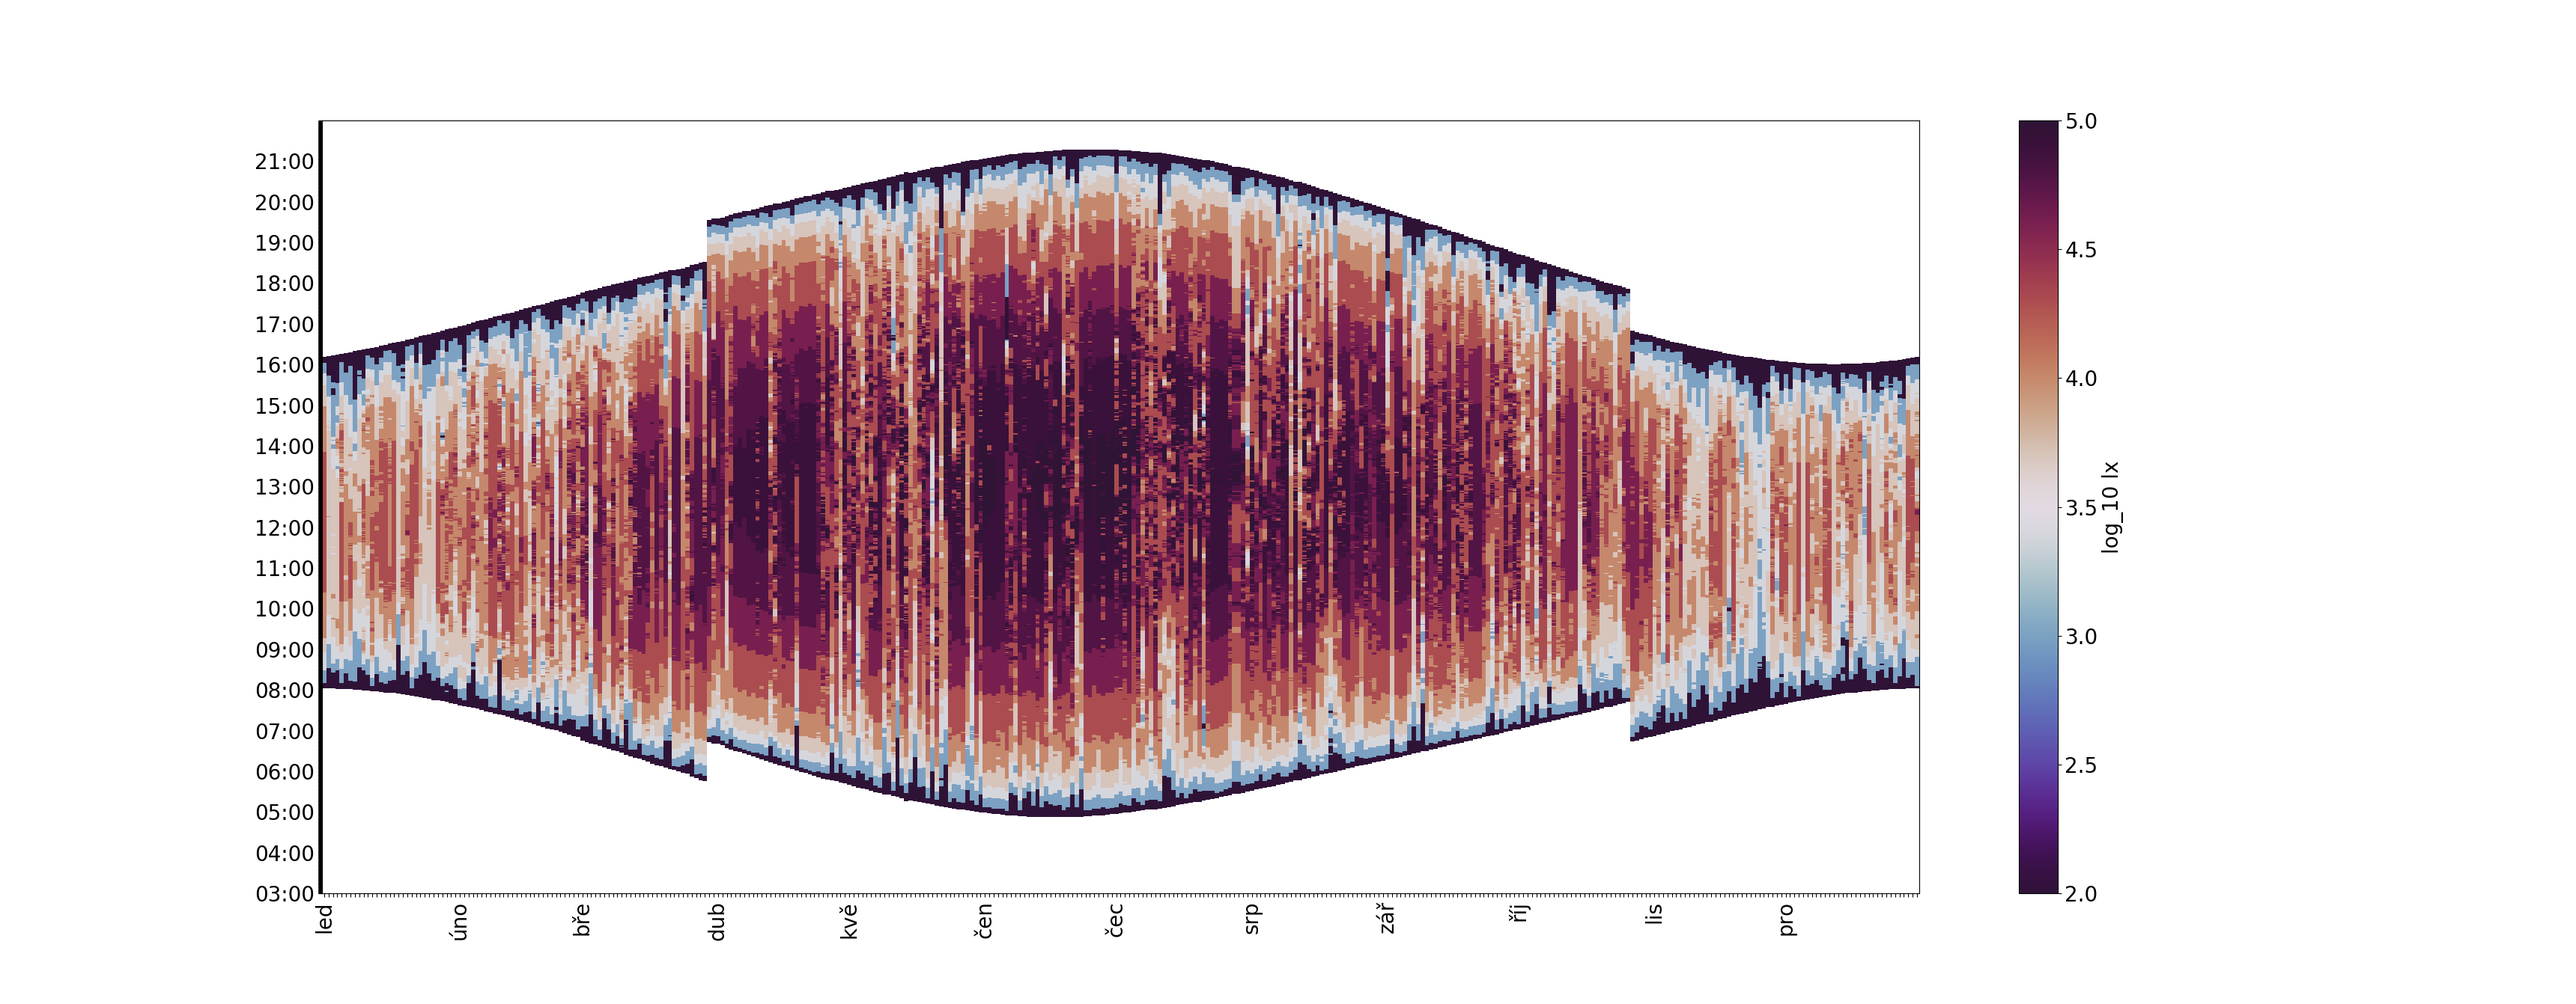
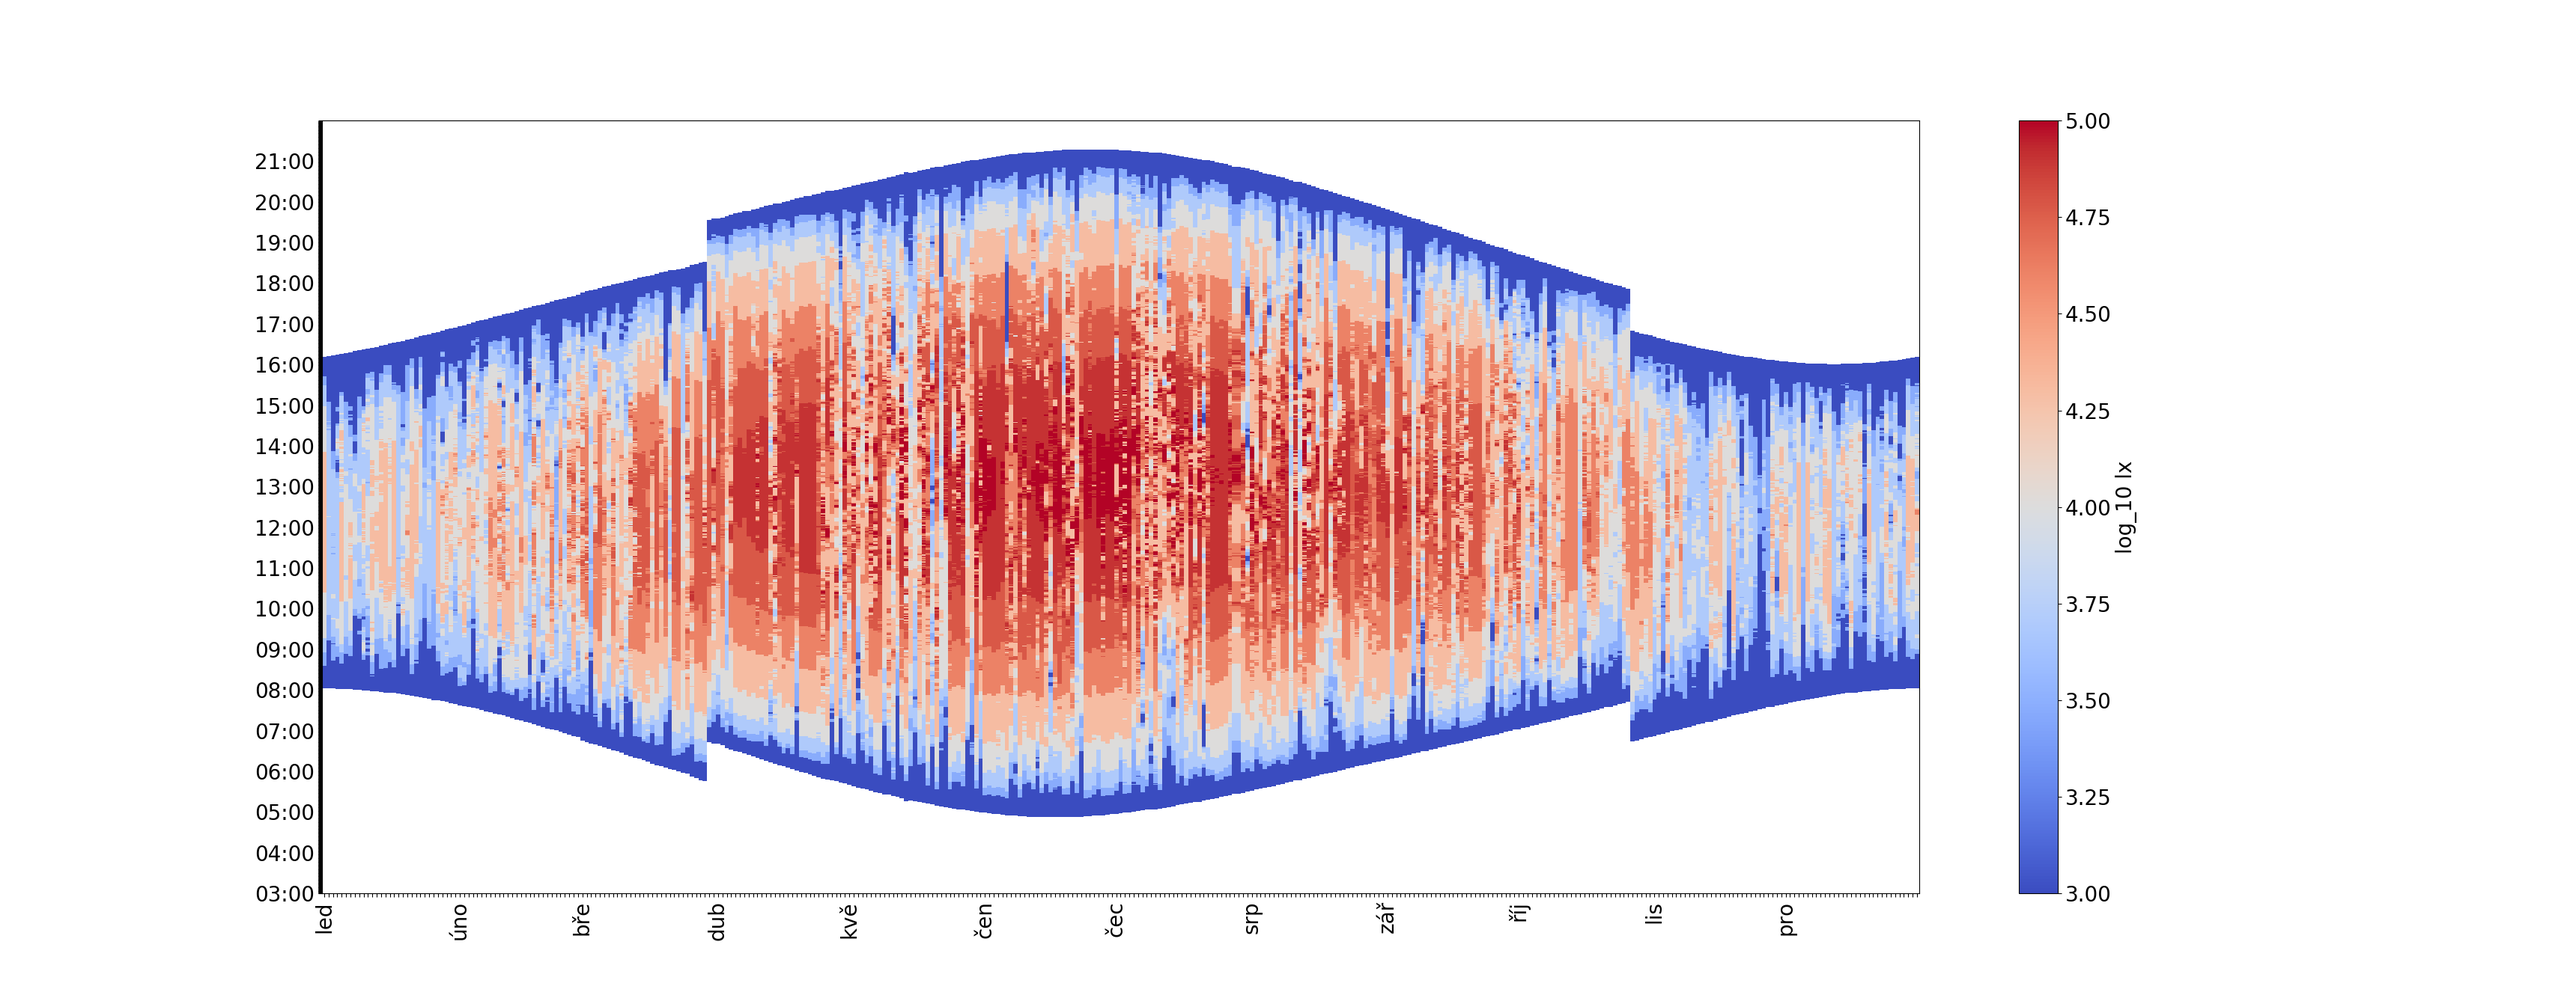
coolwarm

diff --git a/median_19_exterier_cvs_quantized.py b/median_19_exterier_cvs_quantized.py
@@ -37,12 +37,10 @@ def quantize(n):
     return 10000
   elif n > 5000:
     return 5000
-  elif n > 2500:
-    return 2500
-  elif n > 1000:
-    return 1000
+  elif n > 3000:
+    return 3000
   elif n > 0:
-    return 100
+    return 1000
   else:
     return n
 
@@ -64,7 +62,7 @@ print(df2)
 
 fig, ax = plt.subplots()
 
-im = ax.imshow(df2, aspect='auto', origin='lower', cmap=plt.get_cmap("twilight_shifted"))
+im = ax.imshow(df2, aspect='auto', origin='lower', cmap=plt.get_cmap("coolwarm"))
 
 
 import locale

diff --git a/median_19_exterier_cvs_quantized_log.py b/median_19_exterier_cvs_quantized_log.py
@@ -37,12 +37,10 @@ def quantize(n):
     return 10000
   elif n > 5000:
     return 5000
-  elif n > 2500:
-    return 2500
-  elif n > 1000:
-    return 1000
+  elif n > 3000:
+    return 3000
   elif n > 0:
-    return 100
+    return 1000
   else:
     return n
 
@@ -67,7 +65,7 @@ print(df2)
 
 fig, ax = plt.subplots()
 
-im = ax.imshow(df2, aspect='auto', origin='lower', cmap=plt.get_cmap("twilight_shifted"))
+im = ax.imshow(df2, aspect='auto', origin='lower', cmap=plt.get_cmap("coolwarm"))
 
 
 import locale
